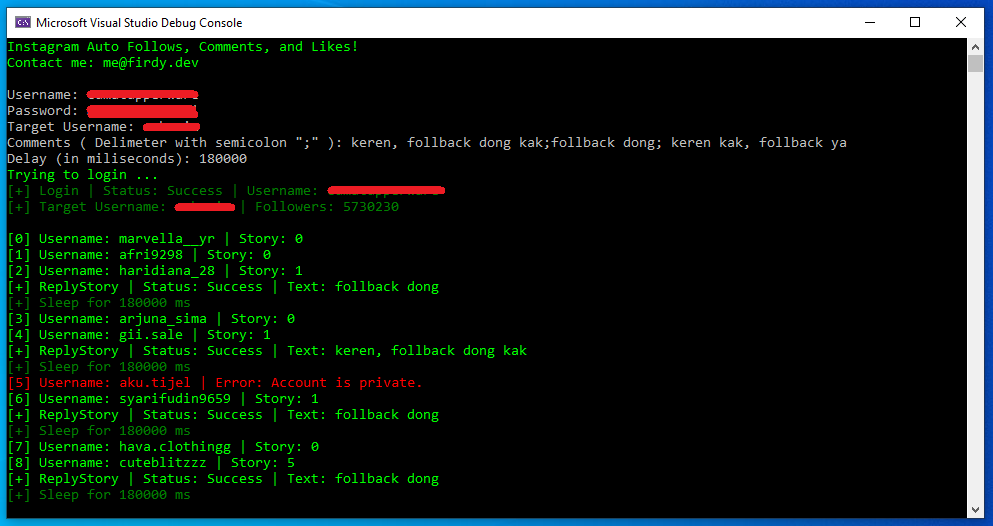
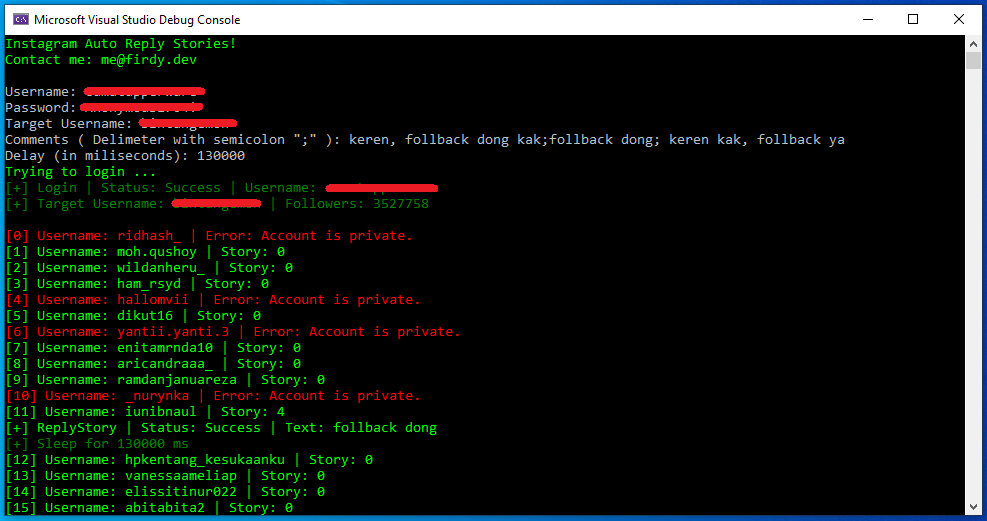
Update Screenshoot

Changed region(s): [[0.0, 0.0, 1.0, 1.0]]

diff --git a/InstaAutoReplyStory/Program.cs b/InstaAutoReplyStory/Program.cs
@@ -19,7 +19,7 @@ namespace InstaAutoReplyStory
       var consoleRed = ConsoleColor.Red;
       var consoleGreen = ConsoleColor.Green;
 
-      HelpersApi.WriteLine("Instagram Auto Follows, Comments, and Likes!", consoleGreen);
+      HelpersApi.WriteLine("Instagram Auto Reply Stories!", consoleGreen);
       HelpersApi.WriteLine("Contact me: me@firdy.dev", consoleGreen);
       Console.WriteLine();
 
